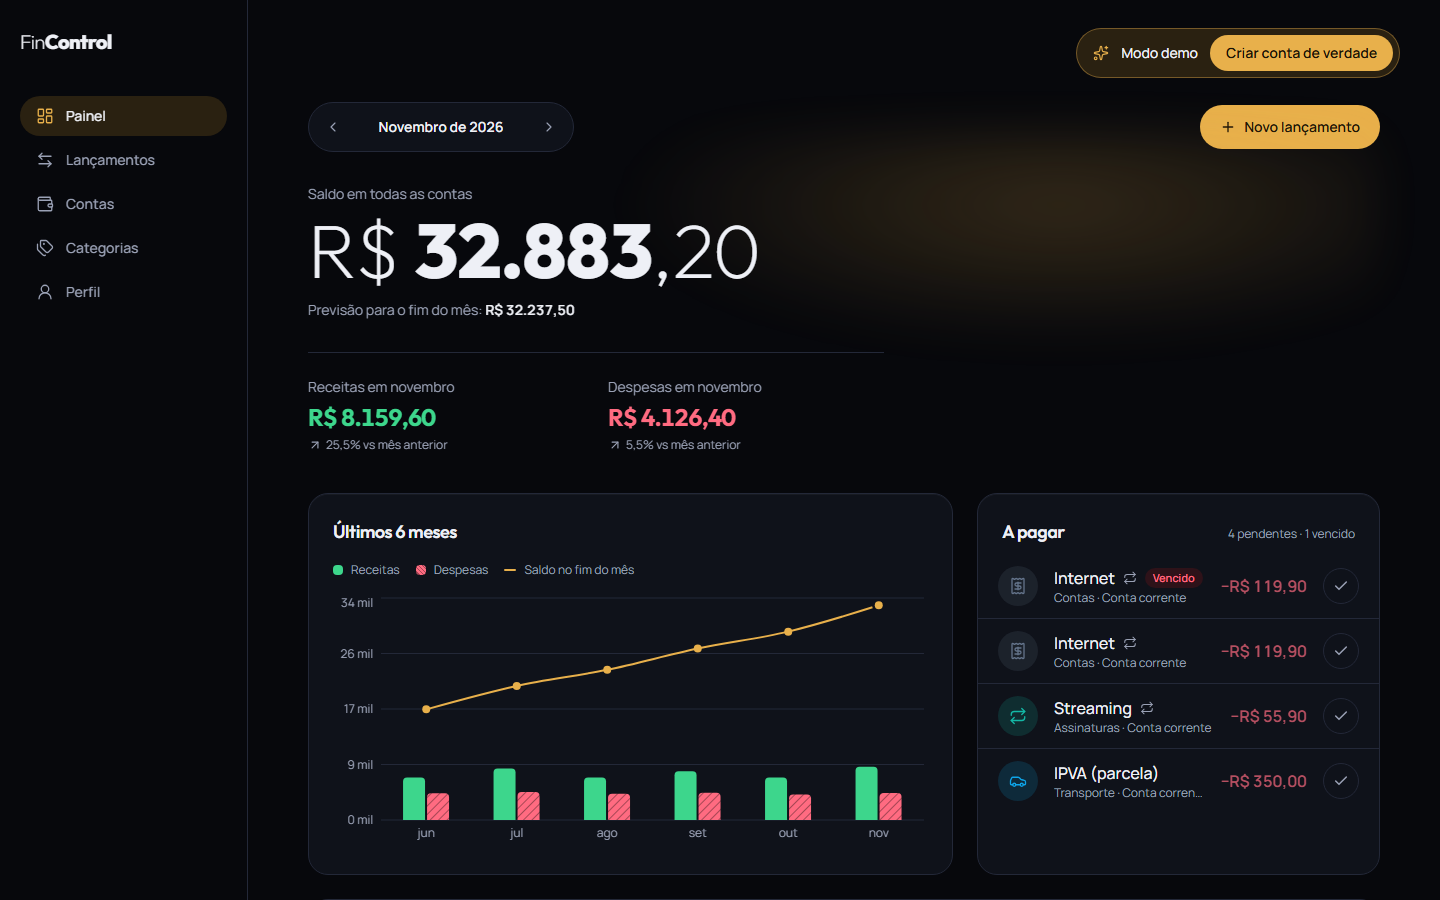
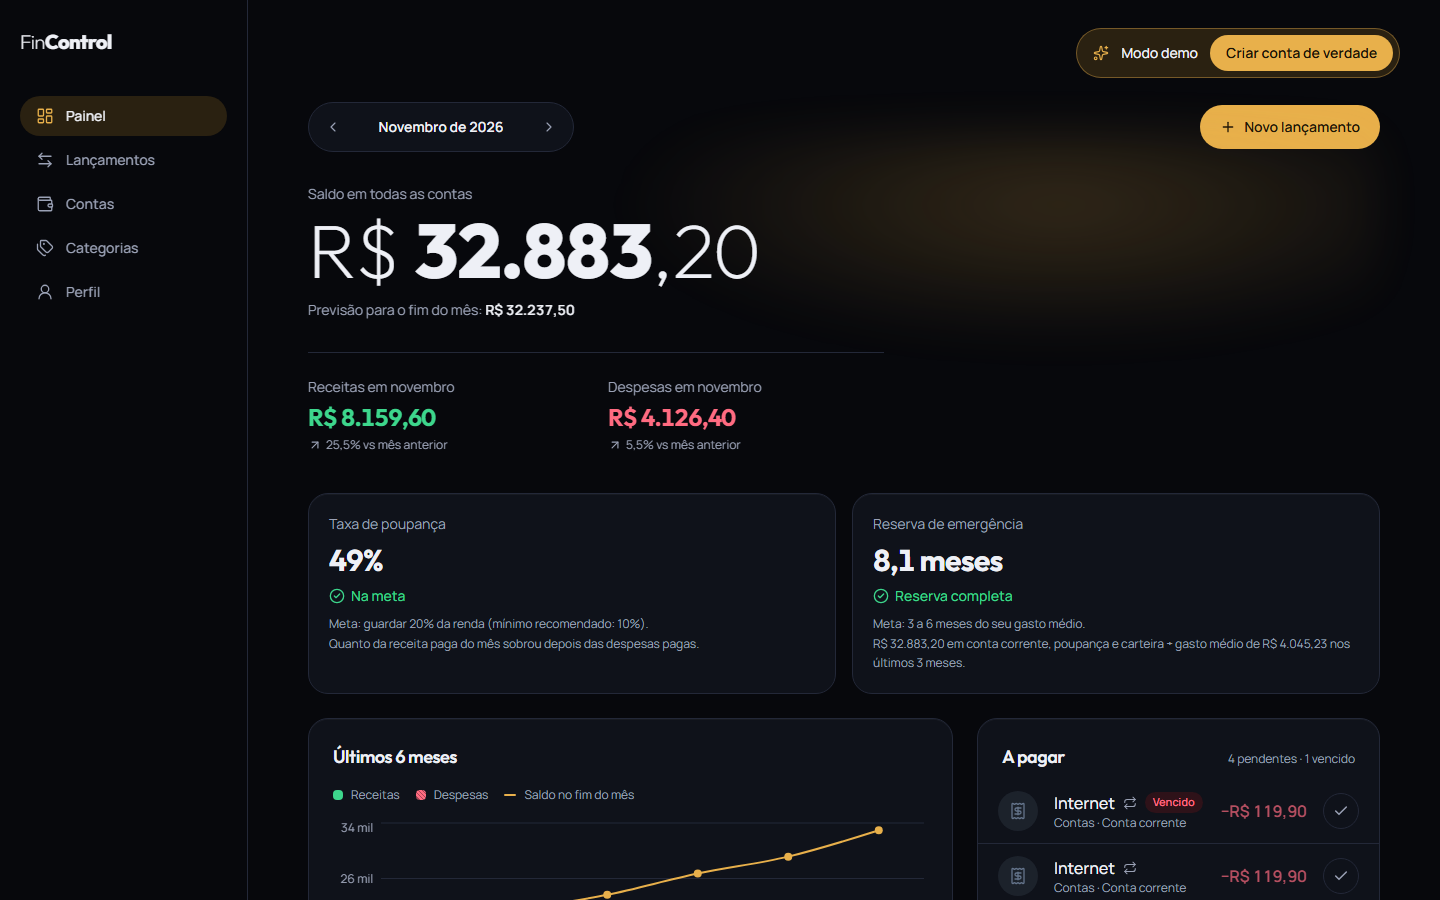
docs: screenshots com os indicadores e mapa das skills atualizado

diff --git a/docs/skills-no-fincontrol.md b/docs/skills-no-fincontrol.md
@@ -43,7 +43,11 @@ O app já guarda a natureza do lançamento (fixa ou variável), as categorias, o
 | `finance-psychology` | **Plano de 4 baldes** em vez de "orçamento" | Custos fixos (natureza fixa) 50 a 60%, investimentos 10% ou mais, poupança 5 a 10%, gasto livre 20 a 35%. A skill recomenda evitar a palavra "orçamento", que passa sensação de escassez, e tratar o gasto livre como algo planejado, sem culpa. |
 | `return-calculations` | **Variação real** dos saldos | CAGR do saldo total. Comparar com o IPCA quando houver índice. |
 
-Encaixe no roadmap: sub-projeto 5 (dashboard completo). Pela spec, cada indicador precisa de uma story antes de ser implementado.
+Encaixe no roadmap: sub-projeto 5 (dashboard completo).
+
+**Entregue em 2026-11-12:** taxa de poupança e meses de reserva no painel (`domain/health.ts`; campo `health` do `/dashboard/summary`).
+- A reserva usa o **gasto total médio** (abordagem conservadora, "manter o padrão de vida"), e não só as categorias essenciais. Os nomes de categoria podem ser alterados pelo usuário, então só a soma total é confiável hoje. Uma marcação de "essencial" fica como melhoria futura.
+- Contas de investimento ficam fora do saldo líquido.
 
 ### 2. Sub-projeto 2: cartões de crédito
 
